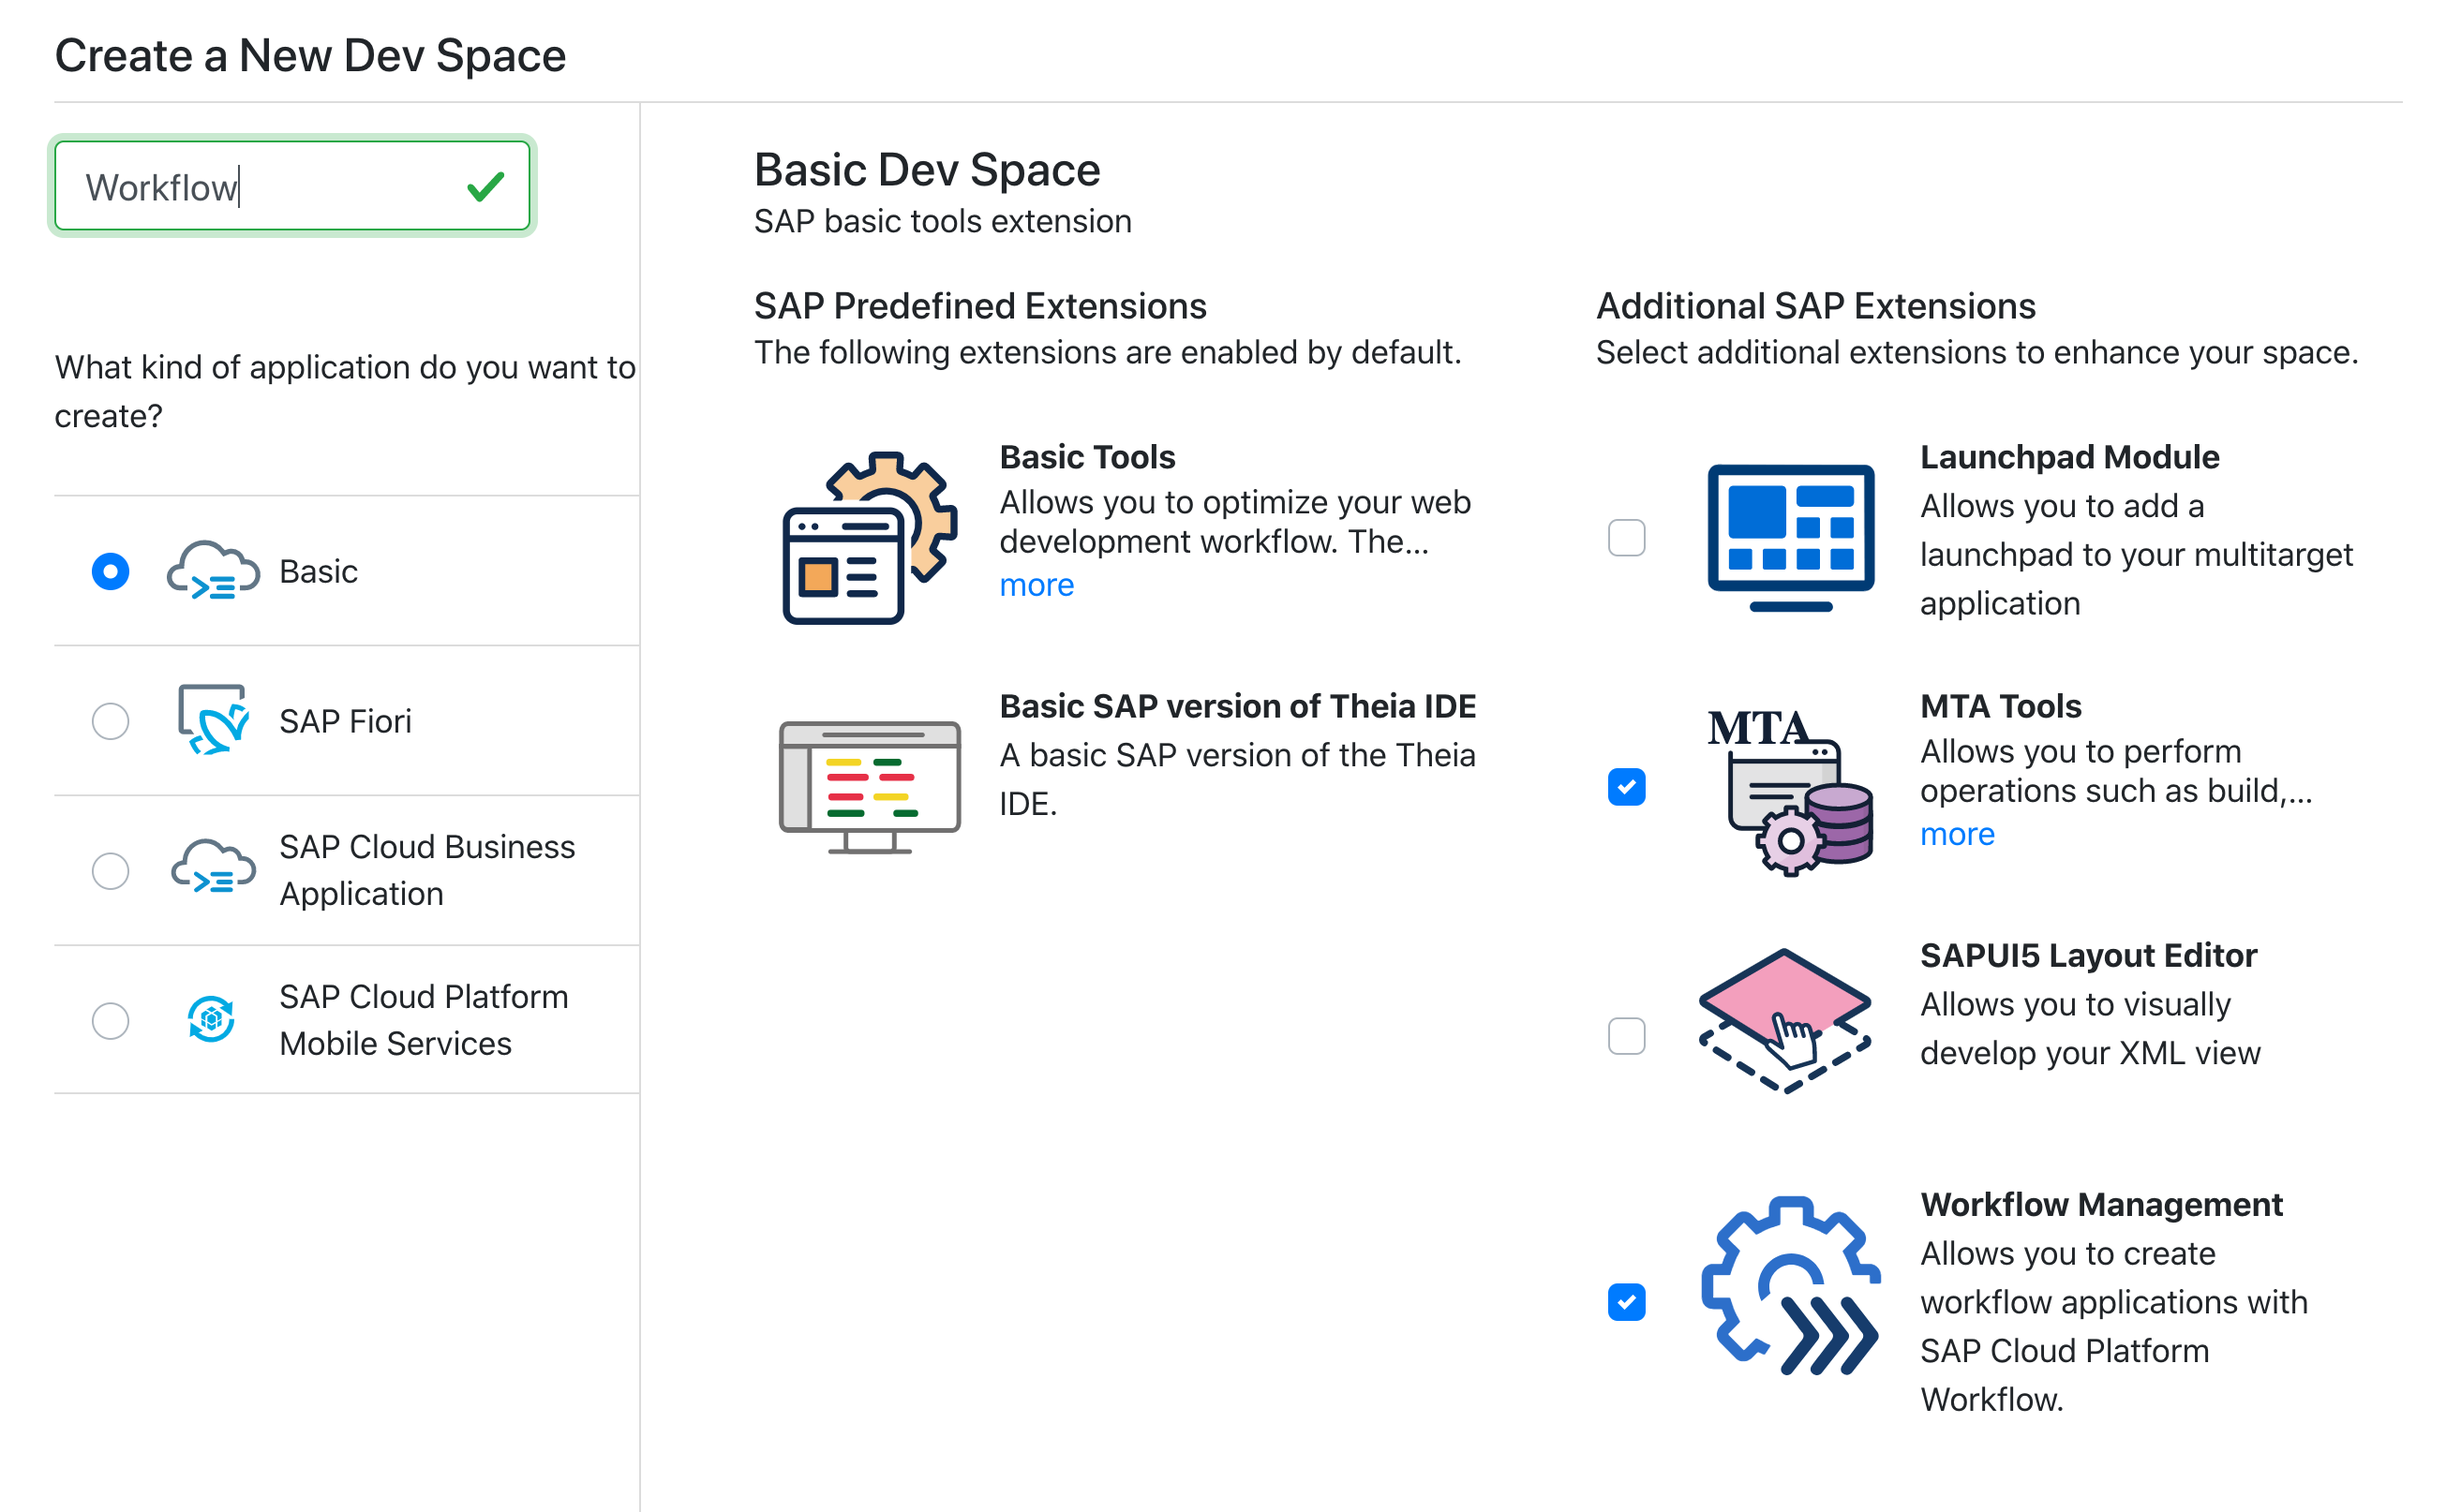
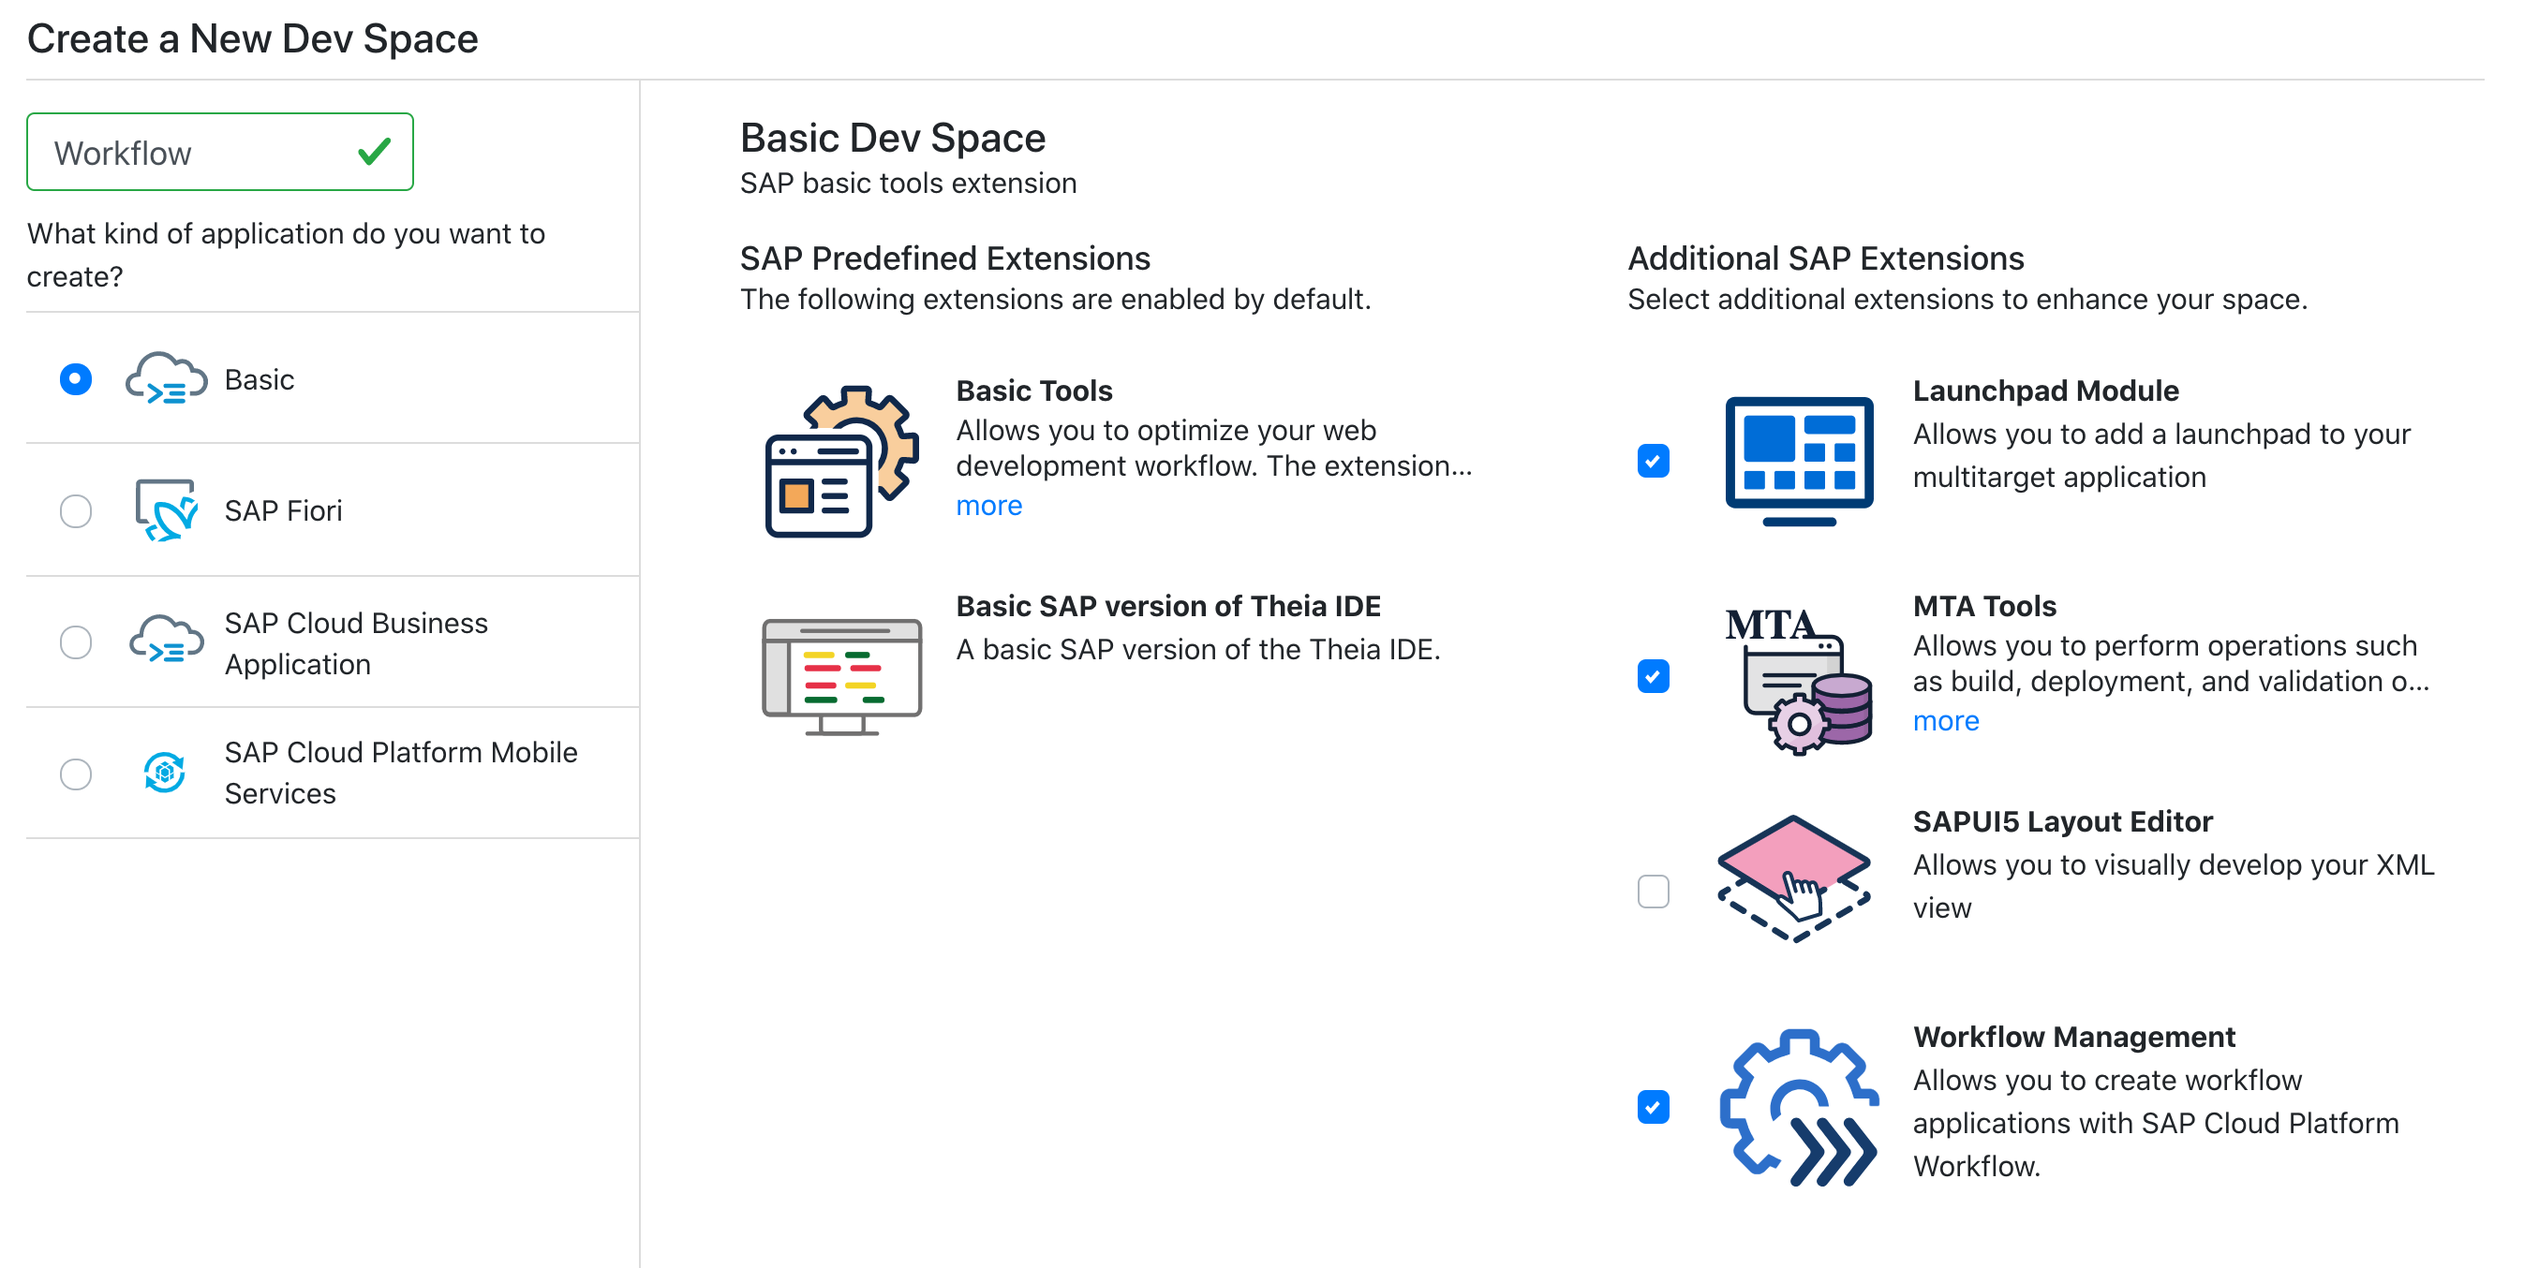
include Launchpad Module as recommended extension

diff --git a/exercises/01/readme.md b/exercises/01/readme.md
@@ -146,12 +146,15 @@ The App Studio has the concept of "Dev Spaces", separate, multiple, development 
 
 ![Dev Spaces page](devspaces.png)
 
-:point_right: Select the "Create Dev Space" button to get to the place where you can and should specify a name for your space, and the extensions you want. Use the name "Workflow", start with the "Basic" space option, and make sure you select these two additional SAP extensions:
+:point_right: Select the "Create Dev Space" button to get to the place where you can and should specify a name for your space, and the extensions you want. Use the name "Workflow", start with the "Basic" space option, and make sure you select these additional SAP extensions:
 
+- Launchpad Module
 - MTA Tools
 - Workflow Management
 
 ![Create a new Dev Space](newdevspace.png)
+
+> The Launchpad Module is not directly required, but it will enable a more comfortable exploration of FLP site configuration files such as `CommonDataModel.json` that we will see in the next exercise.
 
 :point_right: Once you've made the appropriate settings, use the "Create Dev Space" button to initiate the creation of the space, which should take only a few moments, and result in its availability being presented to you, whereupon you can access it via the "Workflow" name link.
 
